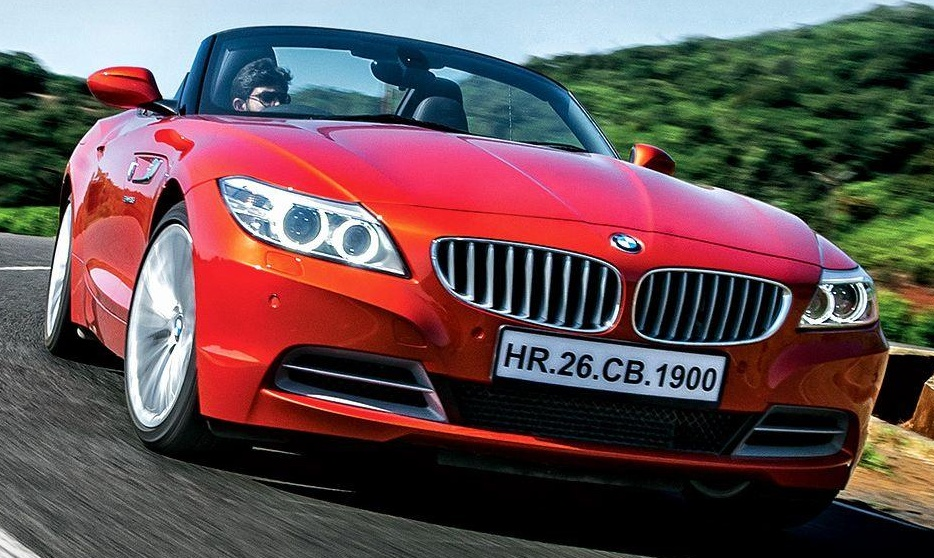
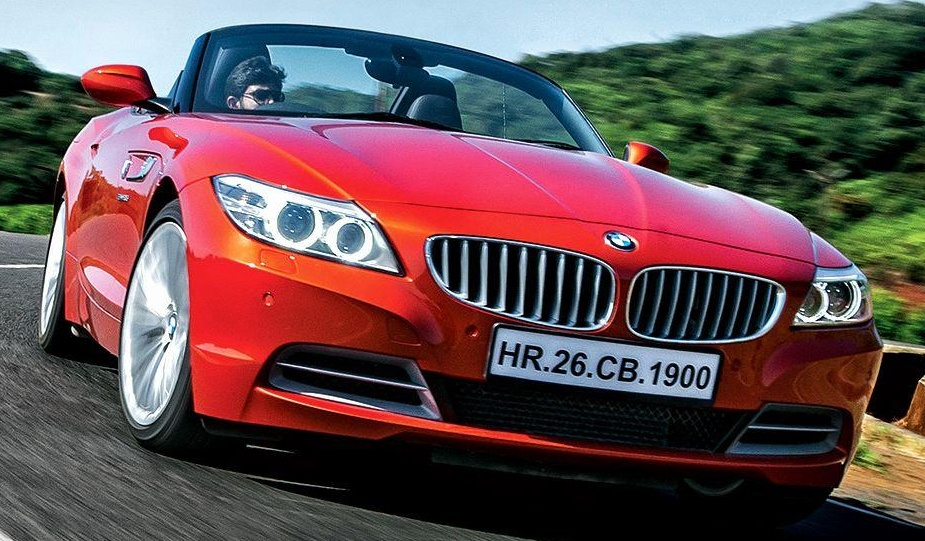
Updated Different filters

diff --git a/licenceplatelocalization.py b/licenceplatelocalization.py
@@ -1,6 +1,47 @@
 import cv2
 import numpy as np
 from ultralytics import YOLO
+from datetime import datetime
+import pytesseract
+# Set Tesseract CMD path - update this path to match your installation
+pytesseract.pytesseract.tesseract_cmd = r'C:\Program Files\Tesseract-OCR\tesseract.exe'
+
+class ImageFilter:
+    @staticmethod
+    def determine_lighting_condition(image):
+        """
+        Determine lighting condition based on image brightness
+        Returns: 'morning', 'evening', or 'night'
+        """
+        # Convert to HSV for better brightness analysis
+        hsv = cv2.cvtColor(image, cv2.COLOR_BGR2HSV)
+        brightness = np.mean(hsv[:, :, 2])
+        
+        if brightness > 150:
+            return 'morning'
+        elif brightness > 100:
+            return 'evening'
+        else:
+            return 'night'
+    
+    @staticmethod
+    def apply_filter(image, lighting):
+        """
+        Apply appropriate filter based on lighting condition
+        """
+        if lighting == 'morning':
+            # For well-lit conditions: minor contrast enhancement
+            return cv2.convertScaleAbs(image, alpha=1.1, beta=0)
+        
+        elif lighting == 'evening':
+            # For evening: increase brightness and contrast
+            return cv2.convertScaleAbs(image, alpha=1.3, beta=30)
+        
+        else:  # night
+            # For night: aggressive contrast enhancement and denoise
+            gray = cv2.cvtColor(image, cv2.COLOR_BGR2GRAY)
+            denoised = cv2.fastNlMeansDenoising(gray)
+            return cv2.equalizeHist(denoised)
 
 class VehicleDetector:
     def __init__(self):
@@ -65,8 +106,22 @@ def detect_from_image(image_path):
         print(f"Error: Could not read image at {image_path}")
         return
     
-    # Detect vehicles
-    detections = detector.detect_vehicles(image)
+    # Apply appropriate filter based on lighting
+    img_filter = ImageFilter()
+    lighting = img_filter.determine_lighting_condition(image)
+    filtered_image = img_filter.apply_filter(image, lighting)
+    
+    print(f"Detected lighting condition: {lighting}")
+    
+    # Save filtered image for debugging
+    cv2.imwrite(f'filtered_{lighting}_{image_path.split("/")[-1]}', 
+                filtered_image if lighting != 'night' else cv2.cvtColor(filtered_image, cv2.COLOR_GRAY2BGR))
+    
+    # Detect vehicles on filtered image
+    if lighting == 'night':
+        # Convert back to BGR for YOLO if it's grayscale
+        filtered_image = cv2.cvtColor(filtered_image, cv2.COLOR_GRAY2BGR)
+    detections = detector.detect_vehicles(filtered_image)
     
     # Draw detections
     output_image = detector.draw_detections(image, detections)
@@ -88,6 +143,18 @@ def test_vehicle_detection():
     image_path = 'sample.jpg'
     detect_from_image(image_path)
 
+
+def perform_ocr(image):
+    """
+    Perform OCR using Tesseract
+    Returns: recognized text
+    """
+    try:
+        text = pytesseract.image_to_string(image, config='--psm 7')
+        return text.strip()
+    except Exception as e:
+        print(f"OCR error: {e}")
+        return ""
 
 def extract_vehicle_roi(image, detection):
     """Extract Region of Interest (ROI) for a detected vehicle
@@ -112,6 +179,11 @@ def extract_vehicle_roi(image, detection):
     
     # Crop the image to the ROI
     vehicle_roi = image[roi_y1:roi_y2, roi_x1:roi_x2]
+    
+    # Attempt OCR
+    text = perform_ocr(vehicle_roi)
+    if text:
+        print(f"OCR result: {text}")
     
     return vehicle_roi
 

diff --git a/README.md b/README.md
@@ -1,0 +1,51 @@
+# License Plate Recognition System
+
+A computer vision system for detecting vehicles and recognizing license plates under various lighting conditions.
+
+## Features
+
+- Vehicle detection using YOLOv8
+- Adaptive image filtering based on lighting conditions (morning, evening, night)
+- License plate extraction and OCR using Tesseract
+- Region of Interest (ROI) extraction for detected vehicles
+
+## Requirements
+
+- Python 3.8+
+- Tesseract OCR installed on your system
+- Required Python packages listed in requirements.txt
+
+## Installation
+
+1. Install Tesseract OCR on your system:
+   - Windows: Download and install from [Tesseract GitHub](https://github.com/UB-Mannheim/tesseract/wiki)
+   - Linux: `sudo apt-get install tesseract-ocr`
+
+2. Install Python dependencies:
+```bash
+pip install -r requirements.txt
+```
+
+## Usage
+
+Run the detection on a sample image:
+
+```python
+python licenceplatelocalization.py
+```
+
+The script will:
+- Detect vehicles in the image
+- Apply appropriate filters based on lighting conditions
+- Save ROIs for each detected vehicle
+- Perform OCR on potential license plate regions
+
+## Output Files
+
+- `output_*.jpg`: Image with detected vehicles marked
+- `vehicle_roi_*.jpg`: Extracted vehicle regions
+- `filtered_*.jpg`: Images after lighting-specific filtering
+
+## License
+
+MIT

diff --git a/thoughtprocess.md b/thoughtprocess.md
@@ -46,3 +46,14 @@ Subsequent models like YOLOv4 and YOLOv5 have built upon the strengths of YOLOv3
 
 #Considering using YOLOV5
 
+
+
+
+Thinking of three different filters for image recognition based on the color of the sky - indicating the time fo the day.
+If we change the filter we can extract license plates more efficiently.
+three filters - Well Lit - morning
+              - Evening - some light
+              - Night - black and white (aggressive mode)
+
+After the filter, we can use two models for now to compare (look for two license plate ocr models) and we pick the one with higher accuracy rate
+
